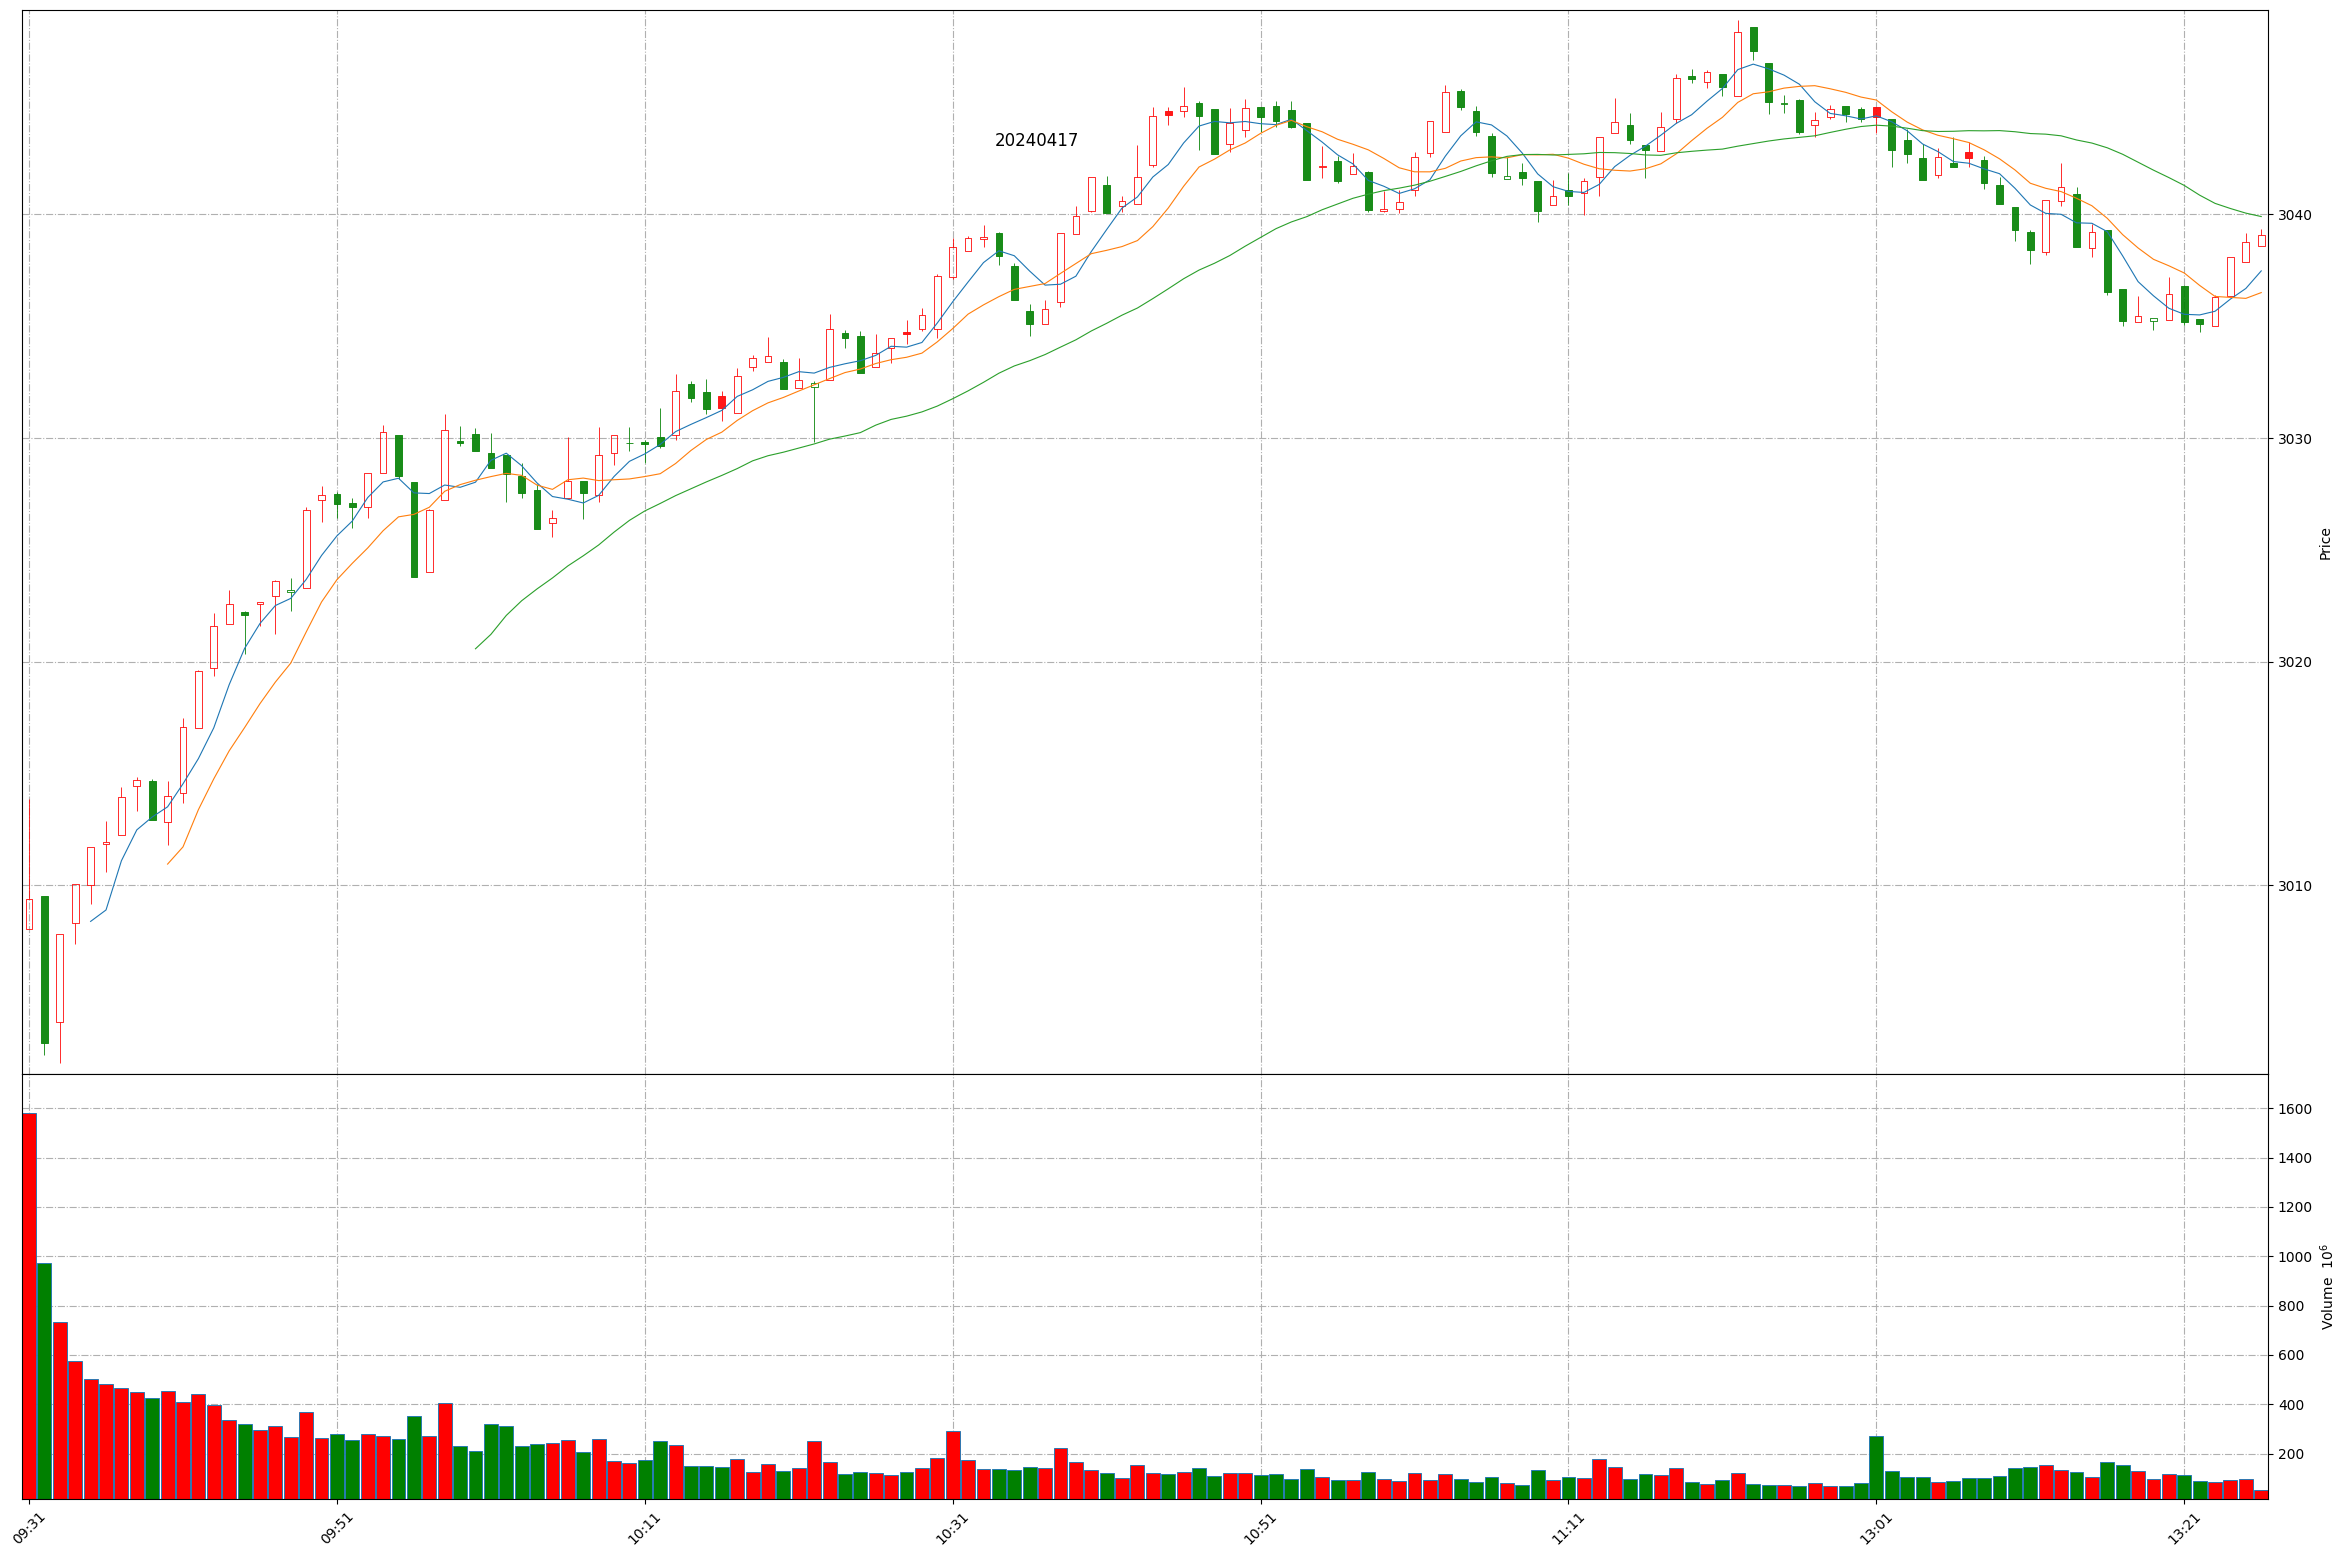
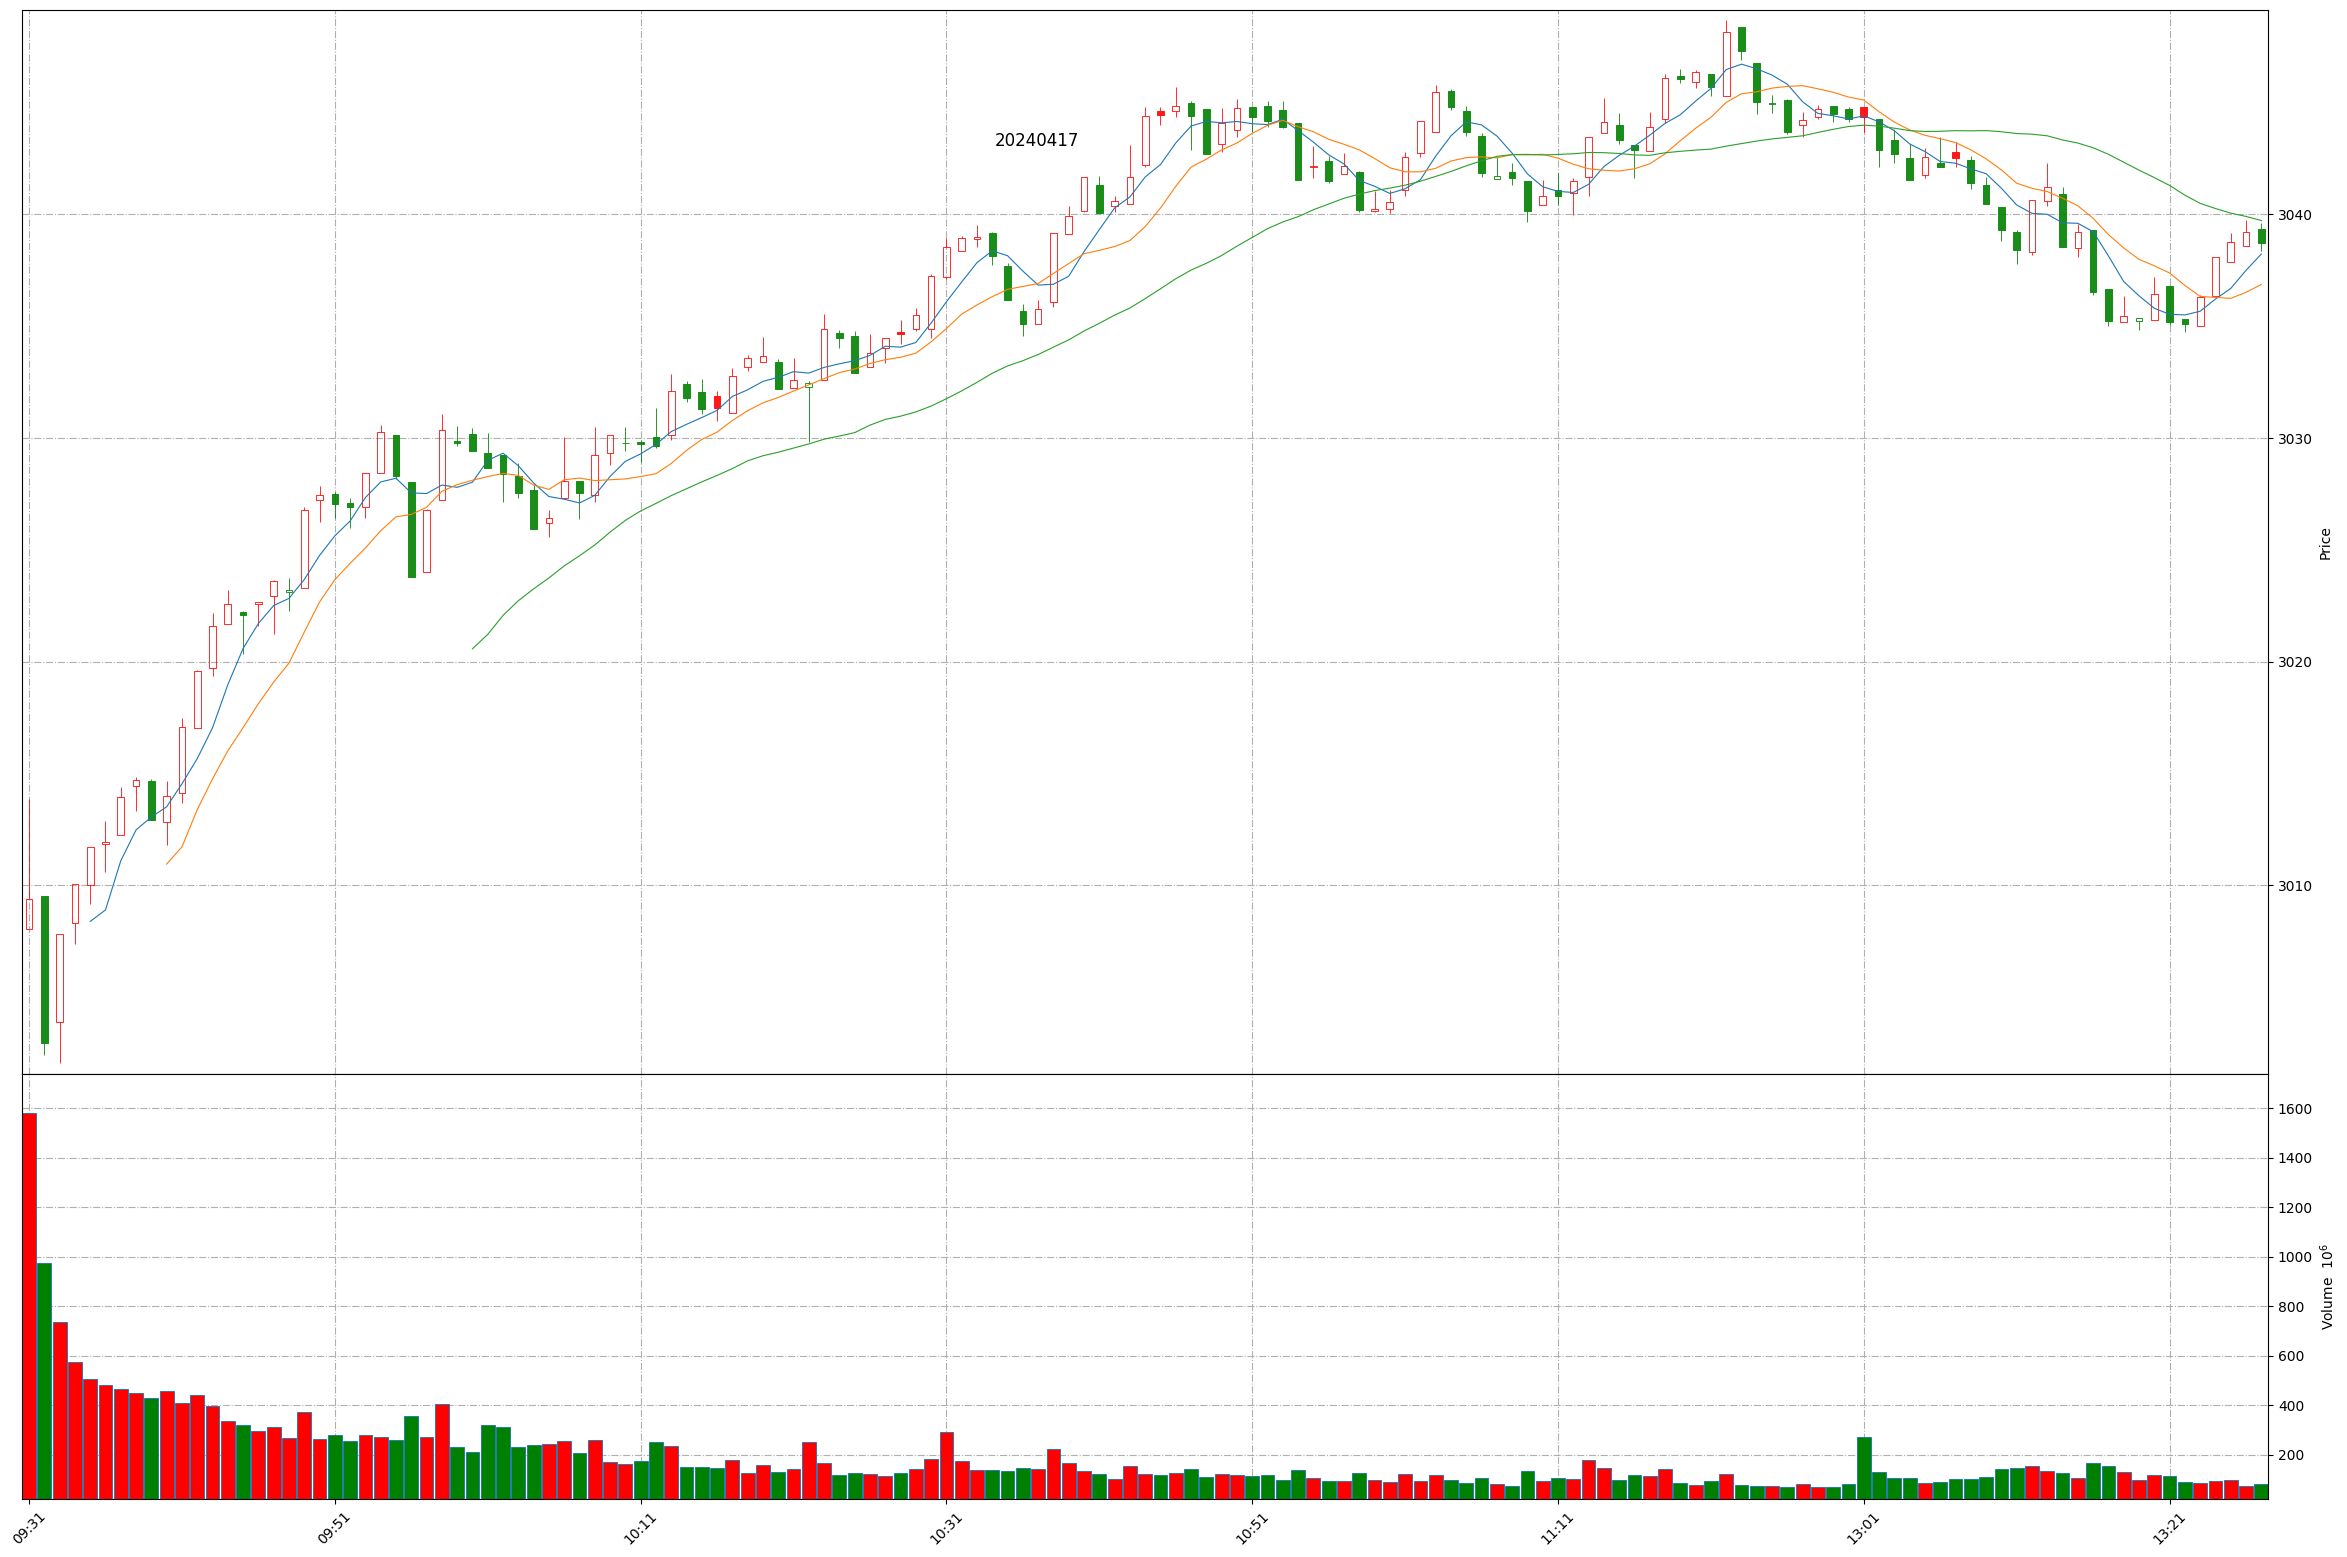
Github action update at 2024-04-17 13:27:17.

diff --git a/README.md b/README.md
@@ -1,11 +1,11 @@
 
 # Daily-A-share-market-quotes 每日 A 股指数（5min 更新）- 20240417
 
-### 上证指数 20240417 13:26
+### 上证指数 20240417 13:27
 ![](./fig/2024/4/20240417-sh000001.png)
 
-### 深证成指 20240417 13:26
+### 深证成指 20240417 13:27
 ![](./fig/2024/4/20240417-sz399001.png)
 
-### 北证50 20240417 13:26
+### 北证50 20240417 13:27
 ![](./fig/2024/4/20240417-bj899050.png)
